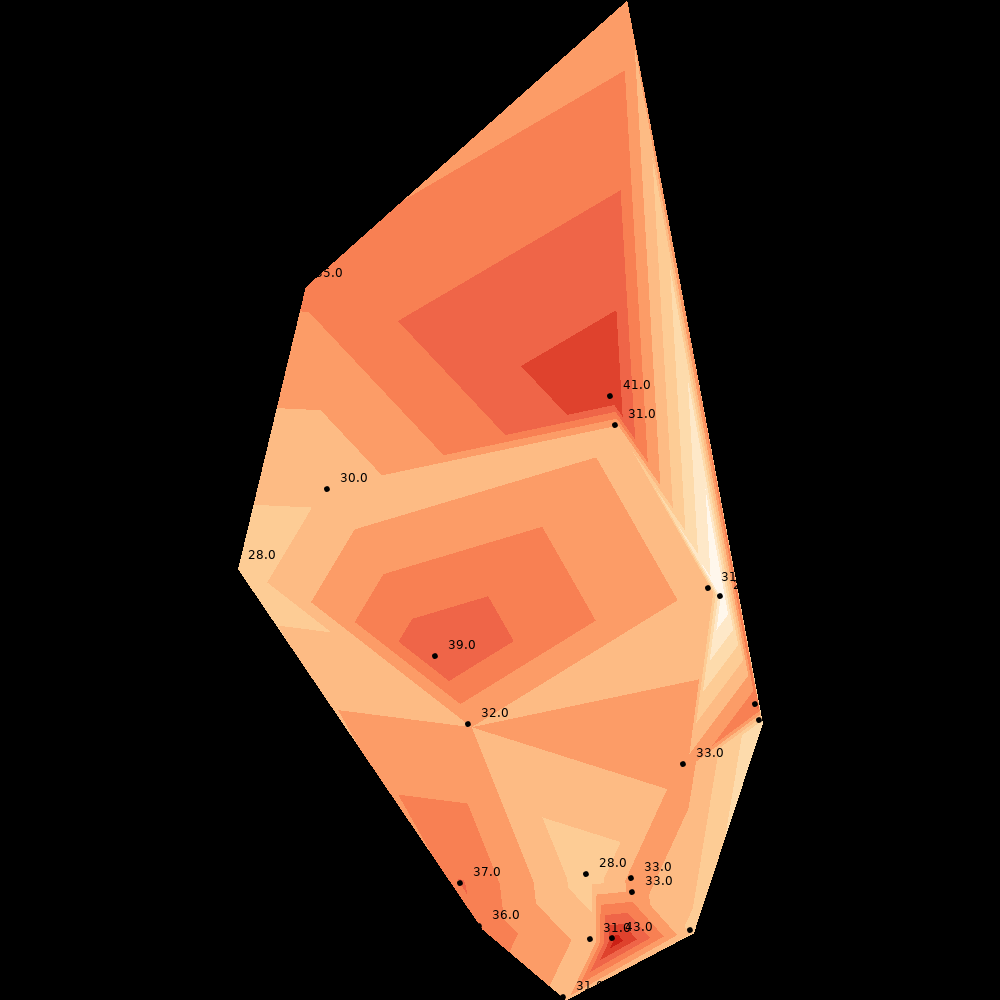
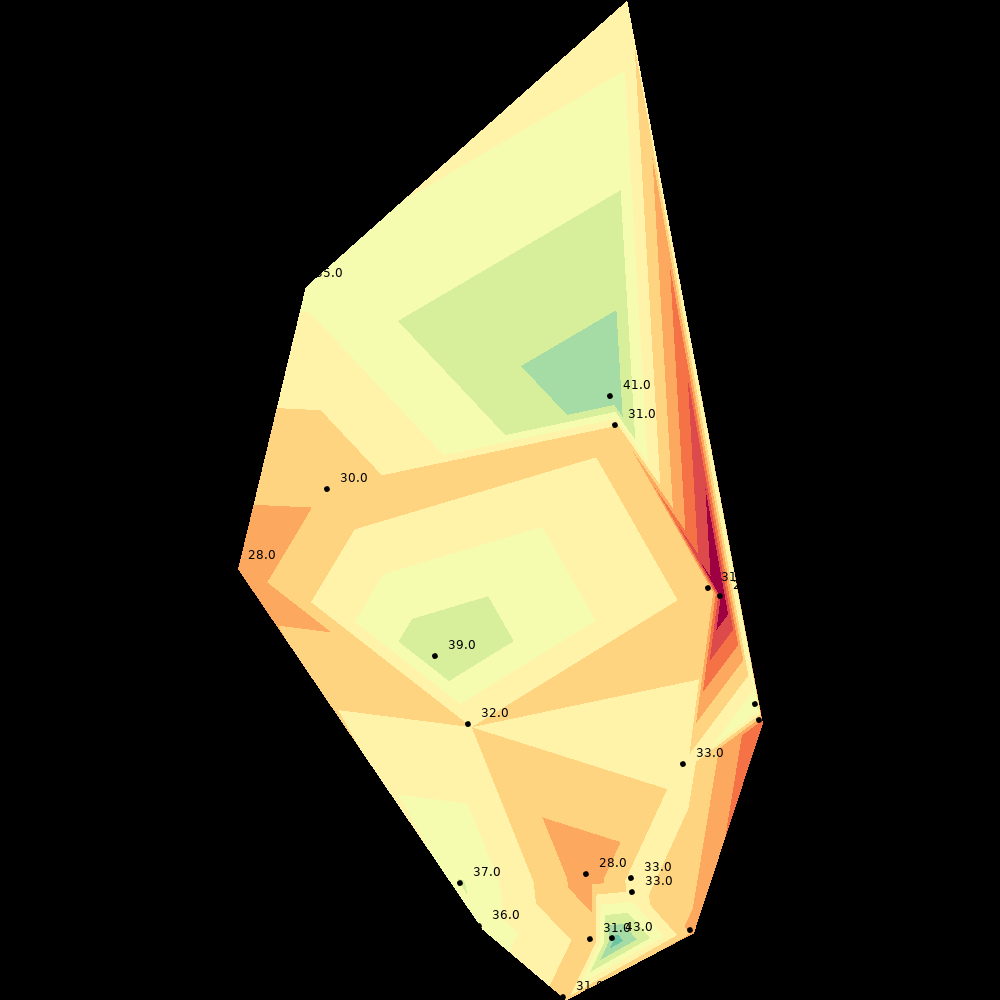
Testien korjailua

diff --git a/triangle-interpolator/src/main/java/utils/CsvParse.java b/triangle-interpolator/src/main/java/utils/CsvParse.java
@@ -42,16 +42,16 @@ public class CsvParse {
     /**
      * Reads rows from given csv (must set with constructor or
      * {@link CsvParse#setFileName(java.lang.String)}) file and parses
-     * {@link utils.MyArrayList} of {@link geometry.Point} objects from values.
-     * Csv file must have column names on first row, other columns are ignored.
+     * {@link utils.MyArrayList} of {@link geometry.Point} objects from values. Csv
+     * file must have column names on first row, other columns are ignored.
      *
      * @param csvSeparator Separator used in csv file (usually ";" )
-     * @param xCoord column name for X-coordinate
-     * @param yCoord column name for Y-coordinate
-     * @param zValue column name for value to interpolate, the weight or
-     * Z-coordinate of point.
-     * @return {@link utils.MyArrayList} of parsed {@link geometry.Point} or
-     * null if invalid file
+     * @param xCoord       column name for X-coordinate
+     * @param yCoord       column name for Y-coordinate
+     * @param zValue       column name for value to interpolate, the weight or
+     *                     Z-coordinate of point.
+     * @return {@link utils.MyArrayList} of parsed {@link geometry.Point} or null if
+     *         invalid file
      */
     public MyArrayList<Point> parsePointsFromFile(String csvSeparator, int xCoord, int yCoord, int zValue) {
         MyArrayList<Point> output = new MyArrayList<>();
@@ -60,7 +60,7 @@ public class CsvParse {
             readFile();
         }
 
-        //If file contains only header row
+        // If file contains only header row
         if (linesFromFile.size() <= 1) {
             return output;
         }
@@ -122,9 +122,9 @@ public class CsvParse {
     }
 
     /**
-     * Creates a list of arrays with values from single string representing a
-     * row in csv file. That is, the strings are splitted with separator and one
-     * array contains all values of one row.
+     * Creates a list of arrays with values from single string representing a row in
+     * csv file. That is, the strings are splitted with separator and one array
+     * contains all values of one row.
      *
      * TODO: don't ignore empty values! "hello;;world" -> [hello,null,world]
      *
@@ -164,22 +164,21 @@ public class CsvParse {
     }
 
     /**
-     * Finds index of columns for X- Y- and Z-coordinates from header (first)
-     * row of csv file. Other columns are ignored. Output is an array containing
-     * in 1st element index of X-coordinate, in 2nd element index of
-     * Y-coordinate and 3rd element containing index of Z-coordinate
+     * Finds index of columns for X- Y- and Z-coordinates from header (first) row of
+     * csv file. Other columns are ignored. Output is an array containing in 1st
+     * element index of X-coordinate, in 2nd element index of Y-coordinate and 3rd
+     * element containing index of Z-coordinate
      *
      * Note: Not used anymore!
      *
      * @param headerRow array of values in header row
-     * @param xCoord name of X-coordinate column
-     * @param yCoord name of Y-coordinate column
-     * @param zValue name of Z-coordinate or weight column
+     * @param xCoord    name of X-coordinate column
+     * @param yCoord    name of Y-coordinate column
+     * @param zValue    name of Z-coordinate or weight column
      * @return
      */
     private int[] mapColumnsForValues(String[] headerRow, String xCoord, String yCoord, String zValue) {
-        if (!utils.MyArrays.contains(headerRow, xCoord)
-                || !utils.MyArrays.contains(headerRow, yCoord)
+        if (!utils.MyArrays.contains(headerRow, xCoord) || !utils.MyArrays.contains(headerRow, yCoord)
                 || !utils.MyArrays.contains(headerRow, zValue)) {
             return null;
         }

diff --git a/triangle-interpolator/src/test/java/io/WriterTest.java b/triangle-interpolator/src/test/java/io/WriterTest.java
@@ -81,7 +81,7 @@ public class WriterTest {
 
     @Test
     public void testWriteToGrayscaleImage() throws IOException {
-        Writer.writeToGrayscaleImage(matrix, fileName);
+        Writer.writeToGrayscaleImage(matrix, fileName, 10);
 
         File dir = new File("test-run");
         File[] files = dir.listFiles();
@@ -97,7 +97,7 @@ public class WriterTest {
 
     @Test
     public void testWriteToGrayscaleImageWithPoints() throws IOException {
-        Writer.writeToGrayscaleImage(matrix, points, fileName);
+        Writer.writeToGrayscaleImage(matrix, points, fileName, 10);
 
         File dir = new File("test-run");
         File[] files = dir.listFiles();
@@ -113,14 +113,14 @@ public class WriterTest {
 
     @Test
     public void testWriteToGrayscaleImageInvalidValues() throws IOException {
-        //When NaN values
+        // When NaN values
         for (int y = 0; y < matrix.length; y++) {
             for (int x = 0; x < matrix[0].length; x++) {
                 matrix[y][x] = Double.NaN;
             }
         }
 
-        Writer.writeToGrayscaleImage(matrix, fileName);
+        Writer.writeToGrayscaleImage(matrix, fileName, 10);
 
         File dir = new File("test-run");
         File[] files = dir.listFiles();
@@ -133,7 +133,7 @@ public class WriterTest {
         assertEquals(matrix[0].length, testImage.getWidth());
         assertEquals(matrix.length, testImage.getHeight());
 
-        //When values over 255 or less 0
+        // When values over 255 or less 0
         for (int y = 0; y < matrix.length; y++) {
             for (int x = 0; x < matrix[0].length; x++) {
                 double value = -999;
@@ -145,7 +145,7 @@ public class WriterTest {
             }
         }
 
-        Writer.writeToGrayscaleImage(matrix, fileName);
+        Writer.writeToGrayscaleImage(matrix, fileName, 10);
 
         dir = new File("test-run");
         files = dir.listFiles();
@@ -162,14 +162,14 @@ public class WriterTest {
 
     @Test
     public void testWriteToGrayscaleImageWithPointsInvalidValues() throws IOException {
-        //When NaN values
+        // When NaN values
         for (int y = 0; y < matrix.length; y++) {
             for (int x = 0; x < matrix[0].length; x++) {
                 matrix[y][x] = Double.NaN;
             }
         }
 
-        Writer.writeToGrayscaleImage(matrix, points, fileName);
+        Writer.writeToGrayscaleImage(matrix, points, fileName, 10);
 
         File dir = new File("test-run");
         File[] files = dir.listFiles();
@@ -182,7 +182,7 @@ public class WriterTest {
         assertEquals(matrix[0].length, testImage.getWidth());
         assertEquals(matrix.length, testImage.getHeight());
 
-        //When values over 255 or less 0
+        // When values over 255 or less 0
         for (int y = 0; y < matrix.length; y++) {
             for (int x = 0; x < matrix[0].length; x++) {
                 double value = -999;
@@ -194,7 +194,7 @@ public class WriterTest {
             }
         }
 
-        Writer.writeToGrayscaleImage(matrix, points, fileName);
+        Writer.writeToGrayscaleImage(matrix, points, fileName, 10);
 
         dir = new File("test-run");
         files = dir.listFiles();
@@ -212,7 +212,7 @@ public class WriterTest {
     public void testWriteTrianglesToImage() throws IOException {
         int width = 100;
         int height = 100;
-        
+
         Writer.writeTrianglesToImage(width, height, setOfTriangles, fileName);
         File dir = new File("test-run");
         File[] files = dir.listFiles();

diff --git a/triangle-interpolator/src/main/java/io/Writer.java b/triangle-interpolator/src/main/java/io/Writer.java
@@ -25,10 +25,6 @@ public class Writer {
      *
      * Note: Writes currently images with values mapped to colour ¯\_(ツ)_/¯
      *
-     * TODO: get rid of value range 0-255, accept any values and find out their min
-     * and max for mapping to colour
-     *
-     *
      * @param values   matrix to write
      * @param filename filename of created image, for example "grayscale.png"
      */
@@ -39,11 +35,9 @@ public class Writer {
                 for (int x = 0; x < values[0].length; x++) {
                     double value = values[y][x];
                     Color newColor;
-                    if (Double.isNaN(value) || value > 255 || value < 0) {
+                    if (Double.isNaN(value) || value > classes || value < 0) {
                         newColor = new Color(0, 0, 0);
                     } else {
-                        // int roundedValue = MyMath.round(value);
-                        // newColor = getRGBForValue(roundedValue, 0, 255);
                         newColor = MyColors.getSequentialColorForClass(value, 10);
                     }
                     image.setRGB(x, y, newColor.getRGB());
@@ -62,10 +56,7 @@ public class Writer {
      * dimensions of matrix. Values of matrix should be in range of 0-255.
      *
      * Note: Writes currently images with values mapped to colour ¯\_(ツ)_/¯
-     *
-     * TODO: get rid of value range 0-255, accept any values and find out their min
-     * and max for mapping to colour
-     *
+     * 
      * @param values   matrix to write
      * @param points   list of points to add
      * @param filename filename of created image, for example "grayscale.png"
@@ -87,13 +78,9 @@ public class Writer {
                 for (int x = 0; x < width; x++) {
                     double value = values[y][x];
                     Color newColor;
-                    int rgb;
-                    if (Double.isNaN(value) || value > 255 || value < 0) {
+                    if (Double.isNaN(value) || value > classes || value < 0) {
                         newColor = new Color(0, 0, 0);
                     } else {
-                        // rgb = MyMath.round(value);
-                        // newColor = getRGBForValue(rgb, 0, 255);
-                        // newColor = getColorForClass(value);
                         newColor = MyColors.getSequentialColorForClass(value, classes);
                     }
                     image.setRGB(x, y, newColor.getRGB());

diff --git a/triangle-interpolator/src/test/java/utils/CsvParseTest.java b/triangle-interpolator/src/test/java/utils/CsvParseTest.java
@@ -7,6 +7,7 @@ package utils;
 
 import geometry.Point;
 import java.io.FileNotFoundException;
+import java.nio.file.Paths;
 import java.util.Arrays;
 import org.junit.After;
 import org.junit.AfterClass;
@@ -48,7 +49,7 @@ public class CsvParseTest {
         XCoord = 0;
         YCoord = 1;
         ZCoord = 2;
-        pathToTestResources = "src/test/resources/";
+        pathToTestResources = "triangle-interpolator/src/test/resources/";
         emptyList = new MyArrayList<>();
 
     }
@@ -134,7 +135,7 @@ public class CsvParseTest {
         parser.setFileName(file1);
 
         String[] result = parser.getCsvHeaders(csvSeparator);
-        String[] expected = {"x", "y", "weight"};
+        String[] expected = { "x", "y", "weight" };
         assertArrayEquals(expected, result);
 
         parser.setFileName(null);

diff --git a/triangle-interpolator/src/main/java/geometry/Line.java b/triangle-interpolator/src/main/java/geometry/Line.java
@@ -29,7 +29,7 @@ public class Line {
     public Line(Point start, Point end) {
         this.start = start;
         this.end = end;
-        this.length = start.calculateHaversineDistance(end);
+        this.length = start.calculateDistance(end);
         this.parameters = this.solveLine();
     }
 
